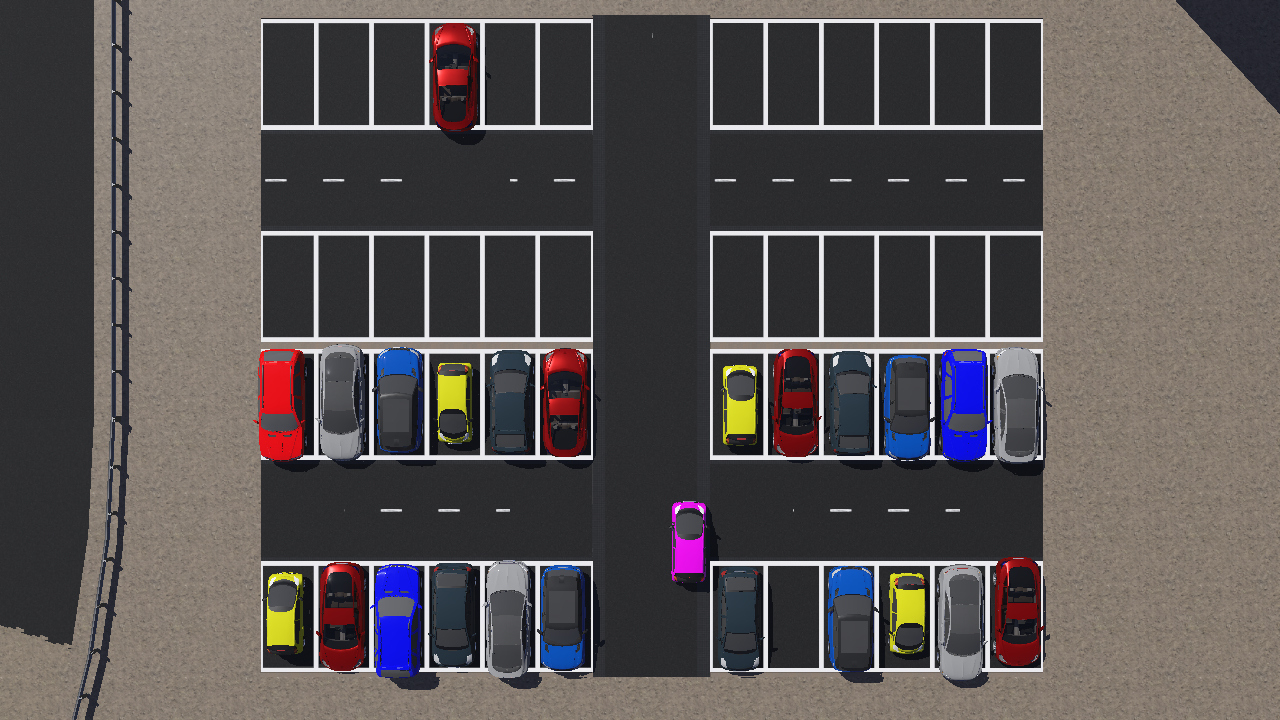
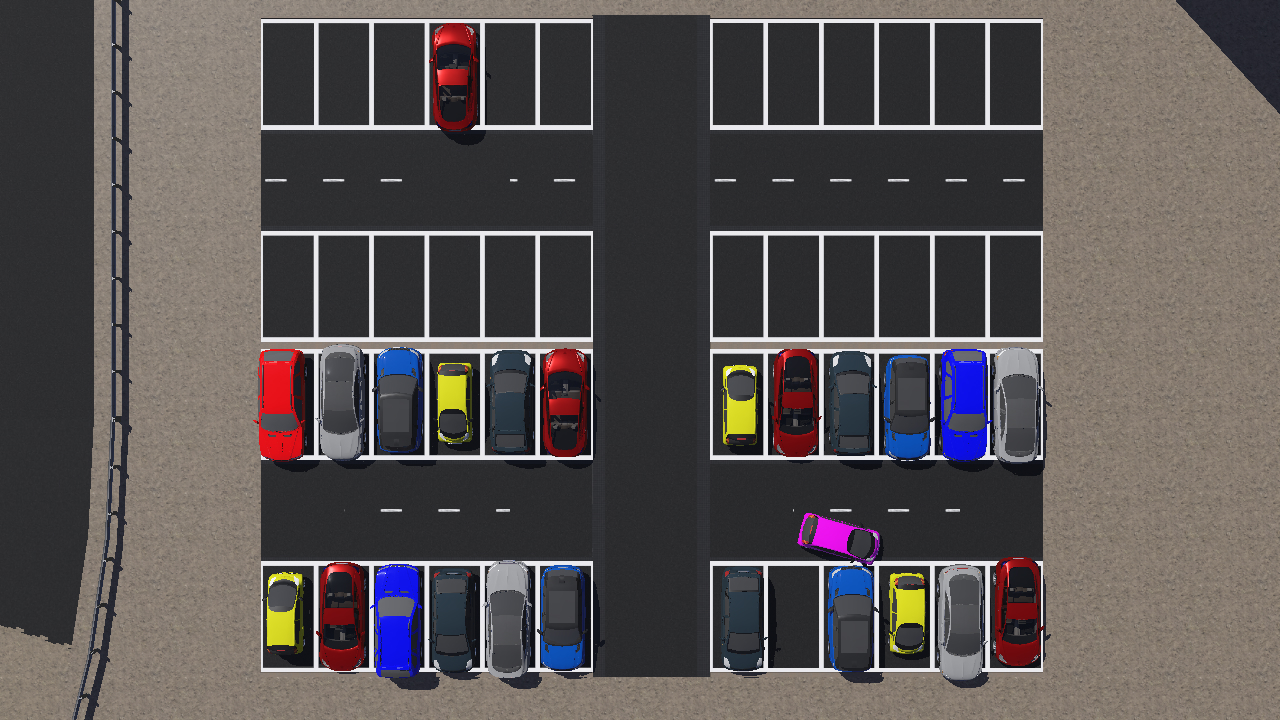
now the car can turn in to its right

diff --git a/ParkingManager.py b/ParkingManager.py
@@ -43,6 +43,8 @@ class ParkingManager:
 
         self.current_driving_phase = 1
 
+        self.required_distance_to_brake = 22  # expressed in pixels
+
         self.mqtt = MQTTClient(cns.MQTT_HOSTNAME, cns.MQTT_TOPIC)
 
         # centerlinePos: centerlinePos['X_coordinate_of_the_left_corner', 'X_coordinate_of_the_right_corner', 'Y_coordinate']
@@ -358,10 +360,10 @@ class ParkingManager:
 
                     # annotated_frame = results[0].plot() # Visualize the results on the frame
 
-                    # CHECK
-                    # print(f"BOOOMER {results[0]}")
-
                     self.detected_objects = json.loads(results[0].tojson())
+
+                    # CHECK
+                    # print(results[0].tojson())
 
                     self.read_frame()  # without this call all the drawing methods couldn't draw on the frame
 
@@ -400,27 +402,26 @@ class ParkingManager:
             return
 
         if self.current_driving_phase == 1:
-            self.guide_the_car_until_the_centerline()  # 1° phase
+            self.guide_the_car_until_the_target(548)  # 1° phase
         elif self.current_driving_phase == 2:
-            self.rotate_the_car_90_degrees()  # 2° phase
+            self.rotate_the_car()  # 2° phase
 
-    def guide_the_car_until_the_centerline(self):
-        # for the moment I will only consider the lowest centerline
-        centerline = self.centerlines[0]
-        centerline_y_coordinate = centerline[2]
-
-        if self.car_about_to_park["box"]["y1"] <= centerline_y_coordinate:
-            # the car that is about to park has crossed the centerline ==> it has to stop, and it has to jump to the next phase
+    def guide_the_car_until_the_target(self, target_y_coordinate):
+        if self.car_about_to_park["box"]["y1"] <= target_y_coordinate + self.required_distance_to_brake:
+            # the car that is about to park has crossed the target ==> it has to stop, and it has to jump to the next phase
             self.send_stop()
             self.current_driving_phase += 1
             return  # ==> it goes to the next phase
         else:
-            # the car that is about to park has not crossed the centerline yet ==> it has to continue to move to reach it
+            # the car that is about to park has not crossed the target yet ==> it has to continue to move to reach it
             self.send_go_straight()
 
-    def rotate_the_car_90_degrees(self):
+    def rotate_the_car(self):
         # for the moment I assume that the car can only rotate to its right
-        pass
+        self.send_rotate(True)
+
+        self.current_driving_phase += 1
+        return  # ==> it goes to the next phase
 
     def find_the_car_that_is_about_to_park(self):
         if not self.check_if_the_car_about_to_park_has_been_already_detected():
@@ -535,6 +536,12 @@ class ParkingManager:
 
     def send_parking_entrance_crossed(self):
         self.mqtt.publish_message(cns.PARKING_ENTRANCE_CROSSED)
+
+    def send_rotate(self, to_the_right):
+        if to_the_right:
+            self.mqtt.publish_message(cns.ROTATE_90_DEGREES_TO_RIGHT)
+        else:
+            self.mqtt.publish_message(cns.ROTATE_90_DEGREES_TO_LEFT)
 
     @staticmethod
     def run(lock):

diff --git a/webots/smartCity/controllers/CarController/CarController.py b/webots/smartCity/controllers/CarController/CarController.py
@@ -1,3 +1,5 @@
+import time
+
 from vehicle.driver import Driver
 from vehicle.car import Car
 
@@ -38,12 +40,11 @@ class CarController(Car):
         parking_entrance_crossed = False
 
         while driver.step() != 1:
-            self.rotate(10, False)
+            # self.rotate(5, True)
 
-            """
             if self.message_queue.empty():
                 if not parking_entrance_crossed:
-                    self.go_straight(5)
+                    self.go_straight(2)
             else:
                 last_received_message = self.message_queue.get()
                 print(f"Last received message: {last_received_message}")
@@ -72,7 +73,6 @@ class CarController(Car):
                 self.stop()
 
                 break
-            """
 
         self.mqttc.loop_stop()  # stop the loop
 

diff --git a/constants.py b/constants.py
@@ -20,7 +20,8 @@ MQTT_TOPIC = "remoteControl"
 PARKING_ENTRANCE_CROSSED = "PARKING_ENTRANCE_CROSSED"
 STOP = "STOP"
 GO_STRAIGHT = "GO_STRAIGHT"
-ROTATE_90_DEGREES_TO_RIGHT = "ROT_90_DEG_R"
+ROTATE_90_DEGREES_TO_RIGHT = "ROT_R"
+ROTATE_90_DEGREES_TO_LEFT = "ROT_L"
 # END msg broker
 
 
